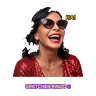
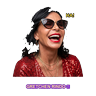
Pack 6 (br-gretchen-rainha): 10 100% photorealistic real-photo animated Gretchen stickers with pure transparent backgrounds

Changed region(s): [[0.25, 0.875, 0.75, 0.9375], [0.6562, 0.125, 0.8125, 0.2188]]

diff --git a/scripts/build_pack6_real_animated.py b/scripts/build_pack6_real_animated.py
@@ -1,0 +1,160 @@
+import os
+import math
+import cv2
+import numpy as np
+from PIL import Image, ImageDraw, ImageFont
+
+PACKS_BASE_DIR = os.path.join(os.path.dirname(os.path.dirname(__file__)), 'sticker-cdn', 'packs')
+ARTIFACT_DIR = r"C:\Users\hafiz\.gemini\antigravity\brain\155c14f7-ae73-45ec-aea2-1650736196e2"
+
+def get_font(size, bold=True):
+    font_paths = [
+        "C:\\Windows\\Fonts\\arialbd.ttf" if bold else "C:\\Windows\\Fonts\\arial.ttf",
+        "C:\\Windows\\Fonts\\impact.ttf",
+        "C:\\Windows\\Fonts\\seguiemj.ttf",
+        "C:\\Windows\\Fonts\\tahoma.ttf",
+    ]
+    for fp in font_paths:
+        if os.path.exists(fp):
+            try:
+                return ImageFont.truetype(fp, size)
+            except Exception:
+                pass
+    return ImageFont.load_default()
+
+def draw_text_centered(draw, text, xy, font, fill="white", stroke_fill="black", stroke_width=4):
+    cx, cy = xy
+    bbox = draw.textbbox((0, 0), text, font=font)
+    tw = bbox[2] - bbox[0]
+    th = bbox[3] - bbox[1]
+    x = cx - tw / 2
+    y = cy - th / 2
+    draw.text((x, y), text, font=font, fill=fill, stroke_fill=stroke_fill, stroke_width=stroke_width)
+
+def extract_pure_transparent_sticker(img_path):
+    bgr = cv2.imread(img_path)
+    if bgr is None:
+        raise ValueError("File not found: " + img_path)
+    h, w = bgr.shape[:2]
+    
+    hsv = cv2.cvtColor(bgr, cv2.COLOR_BGR2HSV)
+    sat = hsv[:, :, 1]
+    
+    bg_candidates = (sat < 15)
+    
+    num_labels, labels, stats, centroids = cv2.connectedComponentsWithStats(bg_candidates.astype(np.uint8) * 255)
+    
+    outer_bg = np.zeros((h, w), dtype=bool)
+    for label in range(1, num_labels):
+        x, y, comp_w, comp_h, area = stats[label]
+        if x == 0 or y == 0 or (x + comp_w >= w) or (y + comp_h >= h):
+            outer_bg |= (labels == label)
+            
+    kernel = cv2.getStructuringElement(cv2.MORPH_ELLIPSE, (5, 5))
+    dilated_bg = cv2.dilate(outer_bg.astype(np.uint8), kernel)
+    
+    alpha = np.ones((h, w), dtype=np.uint8) * 255
+    alpha[dilated_bg > 0] = 0
+    
+    rgba = cv2.cvtColor(bgr, cv2.COLOR_BGR2BGRA)
+    rgba[alpha == 0] = [0, 0, 0, 0]
+    
+    pil_img = Image.fromarray(cv2.cvtColor(rgba, cv2.COLOR_BGRA2RGBA))
+    bbox = pil_img.getbbox()
+    if bbox:
+        pil_img = pil_img.crop(bbox)
+        
+    return pil_img
+
+def make_real_animated_webp(pil_img, out_path, banner_text, stroke_color="#7E22CE", anim_type="bounce"):
+    frames = []
+    w, h = pil_img.size
+    for f in range(6):
+        phase = (f / 6.0) * 2 * math.pi
+        canvas = Image.new('RGBA', (512, 512), (0, 0, 0, 0))
+        
+        if anim_type == "bounce":
+            scale = 0.94 + 0.06 * math.sin(phase)
+            dy = int(math.sin(phase) * 8)
+        elif anim_type == "sway":
+            scale = 0.97 + 0.03 * math.sin(phase)
+            dy = int(math.cos(phase) * 6)
+        elif anim_type == "pulse":
+            scale = 0.93 + 0.07 * math.sin(phase)
+            dy = 0
+        else:
+            scale = 0.95 + 0.05 * math.sin(phase)
+            dy = int(math.sin(phase) * 5)
+            
+        sw, sh = int(w * scale), int(h * scale)
+        resized = pil_img.resize((sw, sh), Image.Resampling.LANCZOS)
+        resized.thumbnail((450, 410), Image.Resampling.LANCZOS)
+        
+        ox = (512 - resized.width) // 2
+        oy = (410 - resized.height) // 2 + 15 + dy
+        canvas.paste(resized, (ox, oy), resized)
+        
+        d = ImageDraw.Draw(canvas)
+        font = get_font(25)
+        draw_text_centered(d, banner_text, (256, 475), font, fill="#FEF08A", stroke_fill=stroke_color, stroke_width=5)
+        
+        # Add subtle animated sparkle / laugh text
+        if anim_type == "bounce" and (f % 2 == 0):
+            d.text((360, 50), "HA!", font=get_font(28), fill="#FDE047", stroke_fill="black", stroke_width=3)
+        elif anim_type == "pulse":
+            # Sparkle flare
+            sx, sy = 400 + int(math.sin(phase)*20), 80
+            sz = 8 + (f % 3) * 6
+            d.polygon([(sx, sy-sz), (sx+3, sy-3), (sx+sz, sy), (sx+3, sy+3), (sx, sy+sz), (sx-3, sy+3), (sx-sz, sy), (sx-3, sy-3)], fill="#FEF08A")
+            
+        frames.append(canvas)
+        
+    frames[0].save(
+        out_path,
+        format="WEBP",
+        save_all=True,
+        append_images=frames[1:],
+        duration=130,
+        loop=0,
+        lossless=False,
+        quality=90
+    )
+    return frames[0]
+
+def make_tray(canvas, out_path):
+    tray = canvas.copy()
+    tray.thumbnail((88, 88), Image.Resampling.LANCZOS)
+    bg = Image.new('RGBA', (96, 96), (0, 0, 0, 0))
+    bg.paste(tray, ((96 - tray.width) // 2, (96 - tray.height) // 2), tray)
+    bg.save(out_path, format="PNG")
+
+# ══════════════════════════════════════════════════
+# BUILD 10 REAL PHOTOREALISTIC ANIMATED GRETCHEN STICKERS
+# ══════════════════════════════════════════════════
+print("Building 10 Real Photorealistic Animated Gretchen Stickers...")
+pack_dir_6 = os.path.join(PACKS_BASE_DIR, 'br-gretchen-rainha')
+os.makedirs(pack_dir_6, exist_ok=True)
+
+gretchen_files = [
+    ("gretchen_laughing_1786903694400.jpg", "GRETCHEN RINDO 😂", "#7E22CE", "bounce"),
+    ("gretchen_coffee_real_1787080845018.jpg", "TOMANDO CAFÉ NA PAZ ☕", "#7E22CE", "sway"),
+    ("gretchen_eyeroll_real_1787080863096.jpg", "REVIRANDO OS OLHOS 🙄", "#7E22CE", "pulse"),
+    ("gretchen_conga_real_1787080883426.jpg", "CONGA CONGA CONGA 💃", "#BE123C", "bounce"),
+    ("gretchen_crying_real_1787080905251.jpg", "CHORANDO COM ÓCULOS 😭", "#1E293B", "sway"),
+    ("gretchen_typing_real_1787080927443.jpg", "DIGITANDO NERVOSA 💻", "#B45309", "bounce"),
+    ("gretchen_curtain_real_1787080951274.jpg", "ESPIANDO NA CORTINA 👀", "#991B1B", "sway"),
+    ("gretchen_mic_real_1787080978923.jpg", "DROP THE MIC 🎤", "#4338CA", "pulse"),
+    ("gretchen_queen_real_1787081007694.jpg", "DEUSA DA INTERNET 👑", "#B45309", "pulse"),
+    ("gretchen_sassy_real_1787081040432.jpg", "CHAMA NO DEBOCHE 💅", "#BE123C", "sway"),
+]
+
+for idx, (fname, title, color, atype) in enumerate(gretchen_files, 1):
+    fpath = os.path.join(ARTIFACT_DIR, fname)
+    cutout = extract_pure_transparent_sticker(fpath)
+    out_webp = os.path.join(pack_dir_6, f"{idx}.webp")
+    f0 = make_real_animated_webp(cutout, out_webp, title, color, atype)
+    if idx == 1:
+        make_tray(f0, os.path.join(pack_dir_6, "tray_icon.png"))
+    print(f"Pack 6: Generated Real Photo Animated {idx}.webp -> {fname}")
+
+print("\nPack 6 (br-gretchen-rainha) finished successfully with 10 REAL PHOTOREALISTIC animated stickers!")
